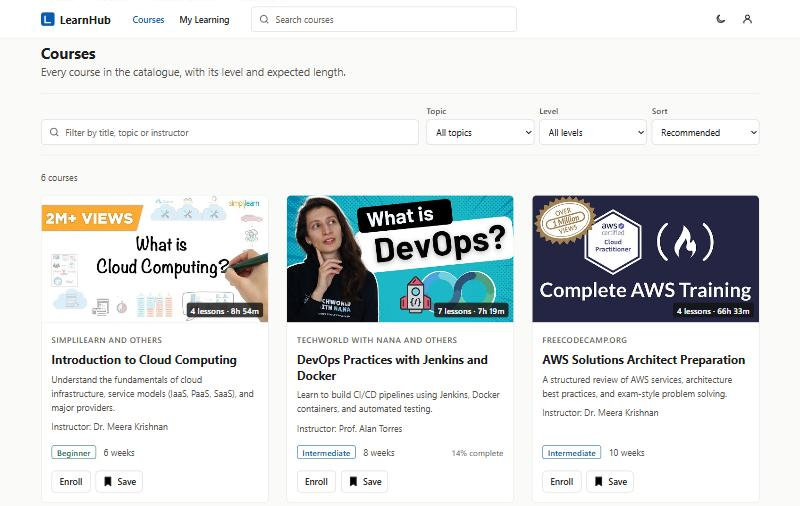
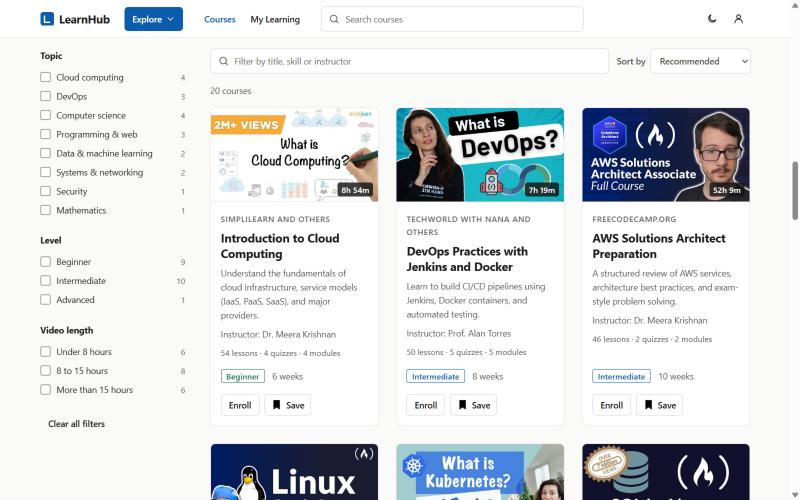
Update README and screenshots for the expanded catalogue

diff --git a/README.md b/README.md
@@ -1,6 +1,6 @@
 # LearnHub – Online Education Platform
 
-A small online learning platform built with **Python Flask**, **Jinja2 templates**, **SQLite** and plain **HTML, CSS and JavaScript** (no build step). Each course is a structured path through free, full-length lectures on YouTube. Created as a Cloud Computing course project: the app is Dockerised and built by a Jenkins CI/CD pipeline.
+A small online learning platform built with **Python Flask**, **Jinja2 templates**, **SQLite** and plain **HTML, CSS and JavaScript** (no build step). It has 20 courses with 988 video lessons and 62 module quizzes, built from 70 free lectures by Harvard CS50, MIT OpenCourseWare, freeCodeCamp and other channels on YouTube. Created as a Cloud Computing course project: the app is Dockerised and built by a Jenkins CI/CD pipeline.
 
 ![Home page](docs/screenshots/home-desktop.jpg)
 
@@ -10,16 +10,20 @@ A small online learning platform built with **Python Flask**, **Jinja2 templates
 
 | Page | Route | What it does |
 |---|---|---|
-| Home and catalogue | `/` | Short intro, topic links, "How it works", and every course as a card with its YouTube thumbnail. Search, filter by topic and level, and sort, all in the browser. Accepts `?q=`, `?category=` and `?level=`. |
-| Course | `/course/<id>` | Description, what you'll learn, syllabus by module, prerequisites, video credits, and Enroll. |
-| Lesson player | `/course/<id>?lesson=<lessonId>` | The video on the left and the lesson list on the right (stacked on phones). Previous/Next, mark as complete, and notes per lesson. |
+| Home and catalogue | `/` | Intro, continue learning, learning paths, topics, and every course as a card. A filter sidebar (topic, level, video length), search and sort, all in the browser. Accepts `?q=`, `?category=`, `?level=`, `?length=` and `?path=`. |
+| Course | `/course/<id>` | Key facts, skills you'll gain, what you'll learn, the syllabus by module (with module descriptions, lessons and a quiz), instructors and channels, FAQ, learning paths and related courses. |
+| Lesson player | `/course/<id>?lesson=<lessonId>` | The video on the left and the course content on the right (stacked on phones). Previous/Next, mark as complete, and notes per lesson. Long lectures are split at the creator's own chapter marks, and each lesson plays just its part. |
+| Module quiz | `/course/<id>?lesson=m<N>-quiz` | Multiple-choice questions with explanations, scored in the browser. Passing (70%) marks the quiz complete. |
 | Enroll | `/enroll/<id>` | Enrollment form with validation, stored in SQLite. |
 | My Learning | `/my-enrollments` | Courses in progress with a progress bar and Continue, saved courses, and your enrollments looked up by email. |
 | Health check | `/health` | Returns `{"status": "healthy"}` for load balancers and CI probes. |
 
+The header has an **Explore** menu with every topic and learning path.
+
 Kept in the browser (`localStorage`, nothing is sent to the server):
 
-- lesson progress and "continue where you left off"
+- lesson and quiz progress, and "continue where you left off"
+- quiz scores (best and last attempt)
 - courses saved for later
 - notes for each lesson, saved as you type
 - light or dark theme (follows the system setting until you choose one)
@@ -32,7 +36,43 @@ Videos use a click-to-load facade: the page shows the thumbnail, and the `youtub
 |---|---|---|
 | Home | ![Home, desktop](docs/screenshots/home-desktop.jpg) | ![Home, phone](docs/screenshots/home-mobile.jpg) |
 | Catalogue | ![Catalogue, desktop](docs/screenshots/catalog-desktop.jpg) | |
+| Course | ![Course page, desktop](docs/screenshots/course-desktop.jpg) | |
 | Player | ![Player, desktop](docs/screenshots/player-desktop.jpg) | ![Player, phone](docs/screenshots/player-mobile.jpg) |
+
+---
+
+## Courses and learning paths
+
+| # | Course | Topic | Level | Lessons | Quizzes | Video |
+|---|---|---|---|---|---|---|
+| 1 | Introduction to Cloud Computing | Cloud | Beginner | 54 | 4 | 8h 54m |
+| 2 | DevOps Practices with Jenkins and Docker | DevOps | Intermediate | 50 | 5 | 7h 19m |
+| 3 | AWS Solutions Architect Preparation | Cloud | Intermediate | 46 | 2 | 52h 9m |
+| 4 | Linux System Administration Essentials | Systems | Beginner | 71 | 4 | 14h 44m |
+| 5 | Containerisation and Kubernetes | DevOps | Advanced | 49 | 4 | 11h 21m |
+| 6 | Database Design and SQL Fundamentals | Data | Beginner | 118 | 4 | 19h 58m |
+| 7 | CS50: Introduction to Computer Science | Computer Science | Beginner | 129 | 10 | 22h 41m |
+| 8 | Python for Everybody | Programming | Beginner | 70 | 2 | 18h 7m |
+| 9 | Git and GitHub in Practice | DevOps | Beginner | 41 | 3 | 7h 16m |
+| 10 | Introduction to Algorithms (MIT 6.006) | Computer Science | Intermediate | 7 | 3 | 6h 3m |
+| 11 | Data Structures and Algorithms | Computer Science | Intermediate | 43 | 2 | 13h 25m |
+| 12 | Web Development Foundations: HTML, CSS and JavaScript | Programming | Beginner | 62 | 2 | 14h 58m |
+| 13 | Computer Networking Fundamentals | Systems | Beginner | 71 | 3 | 13h 42m |
+| 14 | Cybersecurity Fundamentals | Security | Beginner | 20 | 2 | 19h 50m |
+| 15 | Infrastructure as Code with Terraform | Cloud | Intermediate | 39 | 4 | 5h 34m |
+| 16 | Machine Learning Foundations | Data | Intermediate | 42 | 2 | 13h 46m |
+| 17 | Linear Algebra (MIT 18.06) | Math | Intermediate | 3 | 2 | 2h 14m |
+| 18 | Building Web Apps with Flask | Programming | Intermediate | 18 | 2 | 9h 29m |
+| 19 | Google Cloud Associate Cloud Engineer | Cloud | Intermediate | 45 | 1 | 20h 3m |
+| 20 | System Design Fundamentals | Computer Science | Intermediate | 10 | 1 | 54m |
+
+Learning paths:
+
+- **Cloud Engineer**: Introduction to Cloud Computing → Linux System Administration Essentials → Computer Networking Fundamentals → Infrastructure as Code with Terraform → AWS Solutions Architect Preparation → Google Cloud Associate Cloud Engineer
+- **DevOps Engineer**: Linux System Administration Essentials → Git and GitHub in Practice → DevOps Practices with Jenkins and Docker → Containerisation and Kubernetes → Infrastructure as Code with Terraform
+- **Computer Science Foundations**: CS50: Introduction to Computer Science → Python for Everybody → Data Structures and Algorithms → Introduction to Algorithms (MIT 6.006) → System Design Fundamentals
+- **Full-Stack Web Developer**: Web Development Foundations: HTML, CSS and JavaScript → Python for Everybody → Database Design and SQL Fundamentals → Building Web Apps with Flask → Git and GitHub in Practice
+- **Data and Machine Learning**: Python for Everybody → Database Design and SQL Fundamentals → Linear Algebra (MIT 18.06) → Machine Learning Foundations
 
 ---
 
@@ -49,28 +89,30 @@ Videos use a click-to-load facade: the page shows the thumbnail, and the `youtub
 ├── templates/
 │   ├── base.html           #   Layout: header, search, mobile menu, footer
 │   ├── home.html           #   Home and catalogue
-│   ├── course_detail.html  #   Course overview and lesson player
+│   ├── course_detail.html  #   Course overview, lesson player and module quizzes
 │   ├── enroll.html         #   Enrollment form
 │   └── my_enrollments.html #   My Learning
 ├── static/
 │   ├── css/main.css        #   Design tokens, layout and components
-│   ├── js/app.js           #   Catalogue filters, player, progress, notes, theme
-│   └── data/courses.json   #   Modules, lessons and YouTube IDs for each course
+│   ├── js/app.js           #   Catalogue, paths, course page, player, quizzes, progress, notes, theme
+│   └── data/courses.json   #   Modules, lessons, quizzes, paths and credits for each course
 └── docs/screenshots/       # README images
 ```
 
 ### Course content
 
-Course rows (title, instructor, level, duration) live in SQLite, as before. The lessons and videos for each course live in `static/data/courses.json`, matched to the database by course `id`, so no schema change was needed. Each lesson looks like this:
+Course rows (title, descriptions, instructor, level, duration) live in SQLite and are seeded by `database.py`. Seeding inserts any course that is missing, matched by title, so an existing database picks up new courses without touching existing rows or enrollments.
+
+Modules, lessons, quizzes, skills, learning paths and channel credits live in `static/data/courses.json`, matched to the database courses by title. A lesson is either a whole video or one chapter of a longer one:
 
 ```json
-{ "id": "2-3", "title": "Docker from images to volumes", "youtubeId": "3c-iBn73dDE",
-  "seconds": 9975, "duration": "2h 46m", "channel": "TechWorld with Nana",
-  "sourceTitle": "Docker Tutorial for Beginners [FULL COURSE in 3 Hours]",
-  "sourceUrl": "https://www.youtube.com/watch?v=3c-iBn73dDE" }
+{ "id": "m1-3", "title": "ASCII", "youtubeId": "3LPJfIKxwWc", "start": 1680, "end": 2252,
+  "seconds": 572, "duration": "10m", "channel": "CS50",
+  "sourceTitle": "CS50x 2024 - Lecture 0 - Scratch",
+  "sourceUrl": "https://www.youtube.com/watch?v=3LPJfIKxwWc&t=1680s" }
 ```
 
-To add a lesson, add an entry to the course's module in that file. Every video ID was checked against YouTube's oEmbed endpoint.
+Chapter titles and timestamps come from each video's own description, and every video ID was checked against YouTube's oEmbed endpoint. Each module ends with a `quiz` list of `{ q, options, answer, explain }`.
 
 ---
 
@@ -122,14 +164,14 @@ Then open **http://localhost:5000**.
 
 ## Video credits
 
-All lectures are free videos published on YouTube by their creators. LearnHub only embeds them, and each lesson links back to the original. Instructor names on course pages are the course project's sample data.
+All lectures are free videos published on YouTube by their creators. LearnHub only embeds them, and every lesson links back to the original (at the right timestamp for chapter lessons). Instructor names on the first six courses are the course project's sample data.
 
 **Introduction to Cloud Computing**
 
-- [Cloud Computing In 6 Minutes | What Is Cloud Computing?](https://www.youtube.com/watch?v=M988_fsOSWo) by Simplilearn
+- [Cloud Computing In 6 Minutes | What Is Cloud Computing? | Cloud Computing Explained | Simplilearn](https://www.youtube.com/watch?v=M988_fsOSWo) by Simplilearn
 - [AWS Certified Cloud Practitioner Training 2020 - Full Course](https://www.youtube.com/watch?v=3hLmDS179YE) by freeCodeCamp.org
-- [Microsoft Azure Fundamentals Certification Course (AZ-900)](https://www.youtube.com/watch?v=NKEFWyqJ5XA) by freeCodeCamp.org
-- [Learn Terraform (and AWS) by Building a Dev Environment](https://www.youtube.com/watch?v=iRaai1IBlB0) by freeCodeCamp.org
+- [Microsoft Azure Fundamentals Certification Course (AZ-900) - Pass the exam in 3 hours!](https://www.youtube.com/watch?v=NKEFWyqJ5XA) by freeCodeCamp.org
+- [Learn Terraform (and AWS) by Building a Dev Environment – Full Course for Beginners](https://www.youtube.com/watch?v=iRaai1IBlB0) by freeCodeCamp.org
 
 **DevOps Practices with Jenkins and Docker**
 
@@ -143,10 +185,8 @@ All lectures are free videos published on YouTube by their creators. LearnHub on
 
 **AWS Solutions Architect Preparation**
 
-- [AWS Certified Cloud Practitioner Training 2020 - Full Course](https://www.youtube.com/watch?v=3hLmDS179YE) by freeCodeCamp.org
-- [AWS Certified Solutions Architect - Associate 2020 (PASS THE EXAM!)](https://www.youtube.com/watch?v=Ia-UEYYR44s) by freeCodeCamp.org
 - [AWS Solutions Architect Associate Certification (SAA-C03) – Full Course to PASS the Exam](https://www.youtube.com/watch?v=c3Cn4xYfxJY) by freeCodeCamp.org
-- [Learn Terraform (and AWS) by Building a Dev Environment](https://www.youtube.com/watch?v=iRaai1IBlB0) by freeCodeCamp.org
+- [Learn Terraform (and AWS) by Building a Dev Environment – Full Course for Beginners](https://www.youtube.com/watch?v=iRaai1IBlB0) by freeCodeCamp.org
 
 **Linux System Administration Essentials**
 
@@ -170,12 +210,101 @@ All lectures are free videos published on YouTube by their creators. LearnHub on
 - [Database Design Course - Learn how to design and plan a database for beginners](https://www.youtube.com/watch?v=ztHopE5Wnpc) by freeCodeCamp.org
 - [Learn PostgreSQL Tutorial - Full Course for Beginners](https://www.youtube.com/watch?v=qw--VYLpxG4) by freeCodeCamp.org
 
+**CS50: Introduction to Computer Science**
+
+- [CS50x 2024 - Lecture 0 - Scratch](https://www.youtube.com/watch?v=3LPJfIKxwWc) by CS50
+- [CS50x 2024 - Lecture 1 - C](https://www.youtube.com/watch?v=cwtpLIWylAw) by CS50
+- [CS50x 2023 - Lecture 2 - Arrays](https://www.youtube.com/watch?v=XmYnsO7iSI8) by CS50
+- [CS50x 2024 - Lecture 3 - Algorithms](https://www.youtube.com/watch?v=jZzyERW7h1A) by CS50
+- [CS50x 2023 - Lecture 4 - Memory](https://www.youtube.com/watch?v=AcWIE9qazLI) by CS50
+- [CS50x 2024 - Lecture 5 - Data Structures](https://www.youtube.com/watch?v=0euvEdPwQnQ) by CS50
+- [CS50x 2024 - Lecture 6 - Python](https://www.youtube.com/watch?v=EHi0RDZ31VA) by CS50
+- [CS50x 2024 - Lecture 7 - SQL](https://www.youtube.com/watch?v=1RCMYG8RUSE) by CS50
+- [CS50x 2024 - Lecture 8 - HTML, CSS, JavaScript](https://www.youtube.com/watch?v=ciz2UaifaNM) by CS50
+- [CS50x 2023 - Lecture 9 - Flask](https://www.youtube.com/watch?v=oVA0fD13NGI) by CS50
+
+**Python for Everybody**
+
+- [Python for Everybody - Full University Python Course](https://www.youtube.com/watch?v=8DvywoWv6fI) by freeCodeCamp.org
+- [Learn Python - Full Course for Beginners [Tutorial]](https://www.youtube.com/watch?v=rfscVS0vtbw) by freeCodeCamp.org
+
+**Git and GitHub in Practice**
+
+- [Git Tutorial for Beginners: Learn Git in 1 Hour](https://www.youtube.com/watch?v=8JJ101D3knE) by Programming with Mosh
+- [Learn Git – Full Course for Beginners](https://www.youtube.com/watch?v=zTjRZNkhiEU) by freeCodeCamp.org
+- [Git and GitHub for Beginners - Crash Course](https://www.youtube.com/watch?v=RGOj5yH7evk) by freeCodeCamp.org
+- [Git for Professionals Tutorial - Tools & Concepts for Mastering Version Control with Git](https://www.youtube.com/watch?v=Uszj_k0DGsg) by freeCodeCamp.org
+- [Advanced Git Tutorial - Interactive Rebase, Cherry-Picking, Reflog, Submodules and more](https://www.youtube.com/watch?v=qsTthZi23VE) by freeCodeCamp.org
+
+**Introduction to Algorithms (MIT 6.006)**
+
+- [1. Algorithms and Computation](https://www.youtube.com/watch?v=ZA-tUyM_y7s) by MIT OpenCourseWare
+- [2. Data Structures and Dynamic Arrays](https://www.youtube.com/watch?v=CHhwJjR0mZA) by MIT OpenCourseWare
+- [3. Sets and Sorting](https://www.youtube.com/watch?v=oS9aPzUNG-s) by MIT OpenCourseWare
+- [4. Hashing](https://www.youtube.com/watch?v=Nu8YGneFCWE) by MIT OpenCourseWare
+- [5. Linear Sorting](https://www.youtube.com/watch?v=yndgIDO0zQQ) by MIT OpenCourseWare
+- [20. Course Review](https://www.youtube.com/watch?v=2NMtS1ecb3o) by MIT OpenCourseWare
+- [Lecture 1: Algorithmic Thinking, Peak Finding](https://www.youtube.com/watch?v=HtSuA80QTyo) by MIT OpenCourseWare
+
+**Data Structures and Algorithms**
+
+- [Data Structures Easy to Advanced Course - Full Tutorial from a Google Engineer](https://www.youtube.com/watch?v=RBSGKlAvoiM) by freeCodeCamp.org
+- [Algorithms and Data Structures Tutorial - Full Course for Beginners](https://www.youtube.com/watch?v=8hly31xKli0) by freeCodeCamp.org
+
+**Web Development Foundations: HTML, CSS and JavaScript**
+
+- [Learn HTML5 and CSS3 From Scratch - Full Course](https://www.youtube.com/watch?v=mU6anWqZJcc) by freeCodeCamp.org
+- [Learn JavaScript - Full Course for Beginners](https://www.youtube.com/watch?v=PkZNo7MFNFg) by freeCodeCamp.org
+
+**Computer Networking Fundamentals**
+
+- [FREE CCNA // What is a Network? // Day 0](https://www.youtube.com/watch?v=S7MNX_UD7vY) by NetworkChuck
+- [Computer Networking Full Course - OSI Model Deep Dive with Real Life Examples](https://www.youtube.com/watch?v=IPvYjXCsTg8) by Kunal Kushwaha
+- [Computer Networking Course - Network Engineering [CompTIA Network+ Exam Prep]](https://www.youtube.com/watch?v=qiQR5rTSshw) by freeCodeCamp.org
+
+**Cybersecurity Fundamentals**
+
+- [Cyber Security Full Course for Beginner](https://www.youtube.com/watch?v=U_P23SqJaDc) by My CS
+- [Full Ethical Hacking Course - Network Penetration Testing for Beginners (2019)](https://www.youtube.com/watch?v=3Kq1MIfTWCE) by freeCodeCamp.org
+
+**Infrastructure as Code with Terraform**
+
+- [Terraform explained in 15 mins | Terraform Tutorial for Beginners](https://www.youtube.com/watch?v=l5k1ai_GBDE) by TechWorld with Nana
+- [Complete Terraform Course - From BEGINNER to PRO! (Learn Infrastructure as Code)](https://www.youtube.com/watch?v=7xngnjfIlK4) by DevOps Directive
+- [Terraform Course - Automate your AWS cloud infrastructure](https://www.youtube.com/watch?v=SLB_c_ayRMo) by freeCodeCamp.org
+- [What is Ansible | Ansible Playbook explained | Ansible Tutorial for Beginners](https://www.youtube.com/watch?v=1id6ERvfozo) by TechWorld with Nana
+
+**Machine Learning Foundations**
+
+- [Machine Learning for Everybody – Full Course](https://www.youtube.com/watch?v=i_LwzRVP7bg) by freeCodeCamp.org
+- [Machine Learning Course for Beginners](https://www.youtube.com/watch?v=NWONeJKn6kc) by freeCodeCamp.org
+
+**Linear Algebra (MIT 18.06)**
+
+- [1. The Geometry of Linear Equations](https://www.youtube.com/watch?v=J7DzL2_Na80) by MIT OpenCourseWare
+- [2. Elimination with Matrices.](https://www.youtube.com/watch?v=QVKj3LADCnA) by MIT OpenCourseWare
+- [3. Multiplication and Inverse Matrices](https://www.youtube.com/watch?v=FX4C-JpTFgY) by MIT OpenCourseWare
+
+**Building Web Apps with Flask**
+
+- [CS50x 2023 - Lecture 9 - Flask](https://www.youtube.com/watch?v=oVA0fD13NGI) by CS50
+- [Learn Flask for Python - Full Tutorial](https://www.youtube.com/watch?v=Z1RJmh_OqeA) by freeCodeCamp.org
+- [Flask Course - Python Web Application Development](https://www.youtube.com/watch?v=Qr4QMBUPxWo) by freeCodeCamp.org
+
+**Google Cloud Associate Cloud Engineer**
+
+- [Google Cloud Associate Cloud Engineer Course - Pass the Exam!](https://www.youtube.com/watch?v=jpno8FSqpc8) by freeCodeCamp.org
+
+**System Design Fundamentals**
+
+- [System Design Concepts Course and Interview Prep](https://www.youtube.com/watch?v=F2FmTdLtb_4) by freeCodeCamp.org
+
 ---
 
 ## Not Included Yet
 
 - **User accounts.** Enrollment is looked up by email, and progress, notes and saved courses stay in the browser.
-- **Saving progress in the database.** This would need new tables and API routes.
+- **Saving progress and quiz scores in the database.** This would need new tables and API routes.
 - **AWS deployment.** This will be added separately as the CD part of the course project.
 
 ---
